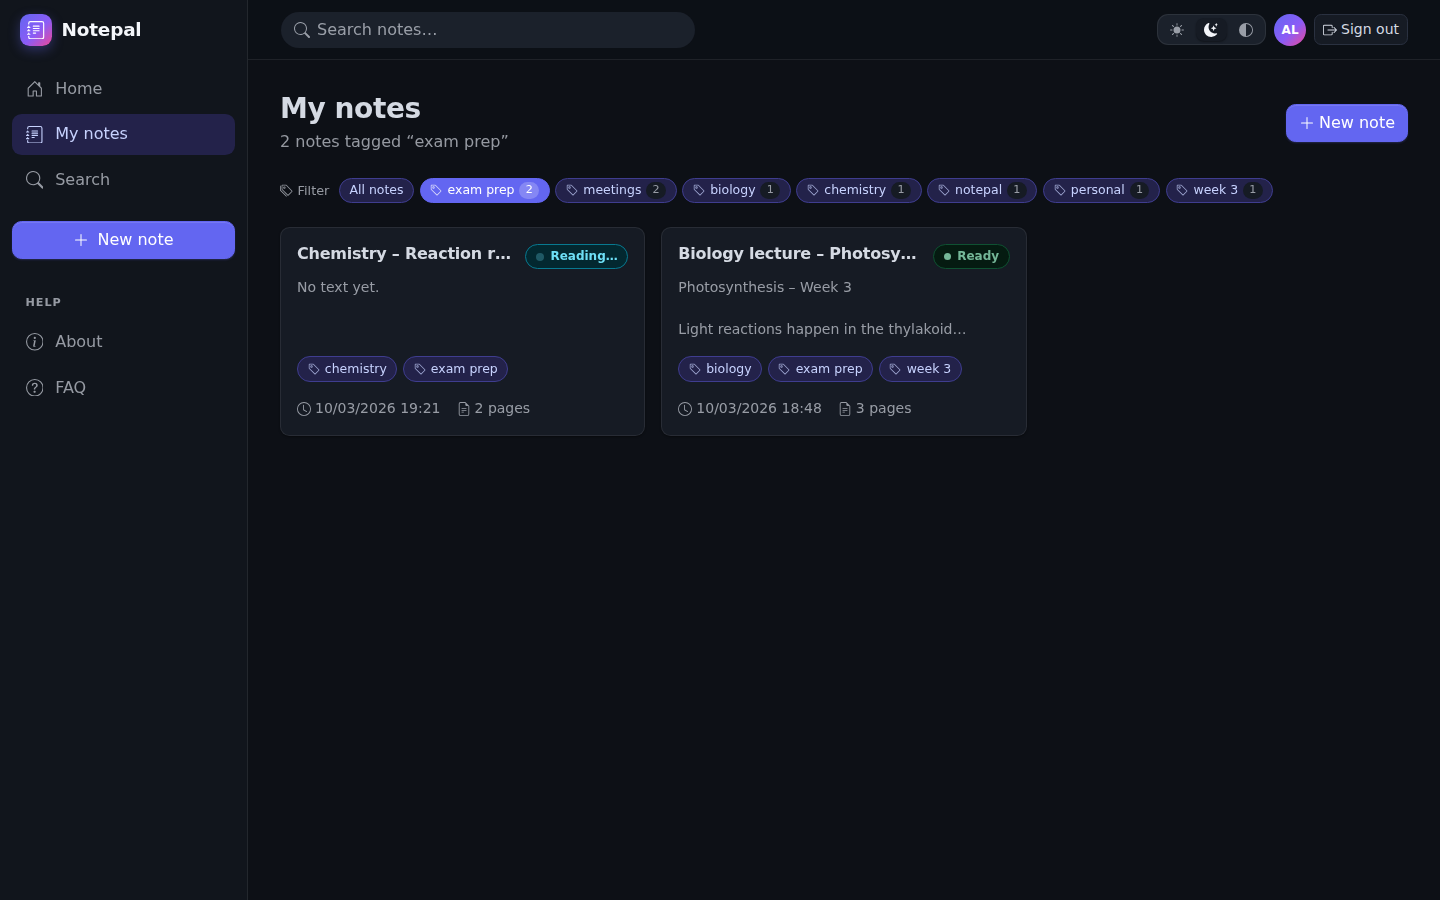
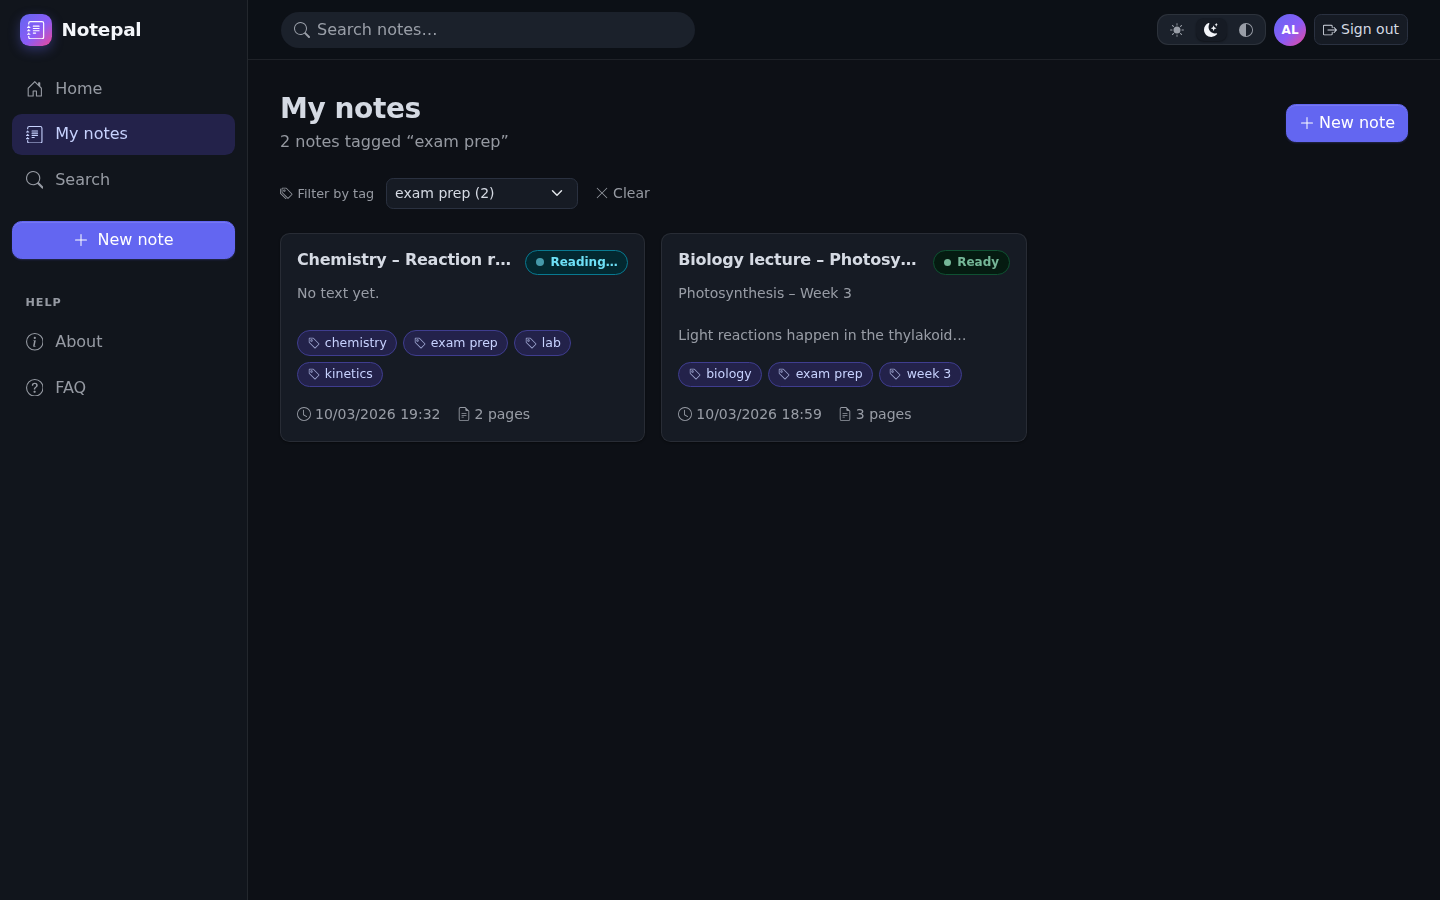
My notes: replace tag chip bar with compact tag filter dropdown

Changed region(s): [[0.1875, 0.1867, 0.9062, 0.4667]]

diff --git a/src/Notepal.Web/wwwroot/app.css b/src/Notepal.Web/wwwroot/app.css
@@ -899,3 +899,16 @@ button.tag-chip {
     color: var(--bs-secondary-color);
     font-size: .8rem;
 }
+
+.tag-filter-select {
+    display: flex;
+    flex-wrap: wrap;
+    align-items: center;
+    gap: .5rem;
+}
+
+    .tag-filter-select .form-select {
+        width: auto;
+        min-width: 12rem;
+        max-width: 100%;
+    }

diff --git a/docs/screenshots/README.md b/docs/screenshots/README.md
@@ -15,7 +15,7 @@ Captured from the web app at 1440×900 (mobile at 390×844) with sample data.
 | ![Original, light](light-note-original.png) | ![Original, dark](dark-note-original.png) |
 | ![Notes, light](light-note-notes.png) | ![Notes, dark](dark-note-notes.png) |
 
-## Tags – edit on a note (with previously used suggestions) and filter My notes by tag
+## Tags – edit on a note (with previously used suggestions) and filter My notes with the tag drop-down
 
 | Light | Dark |
 | --- | --- |
